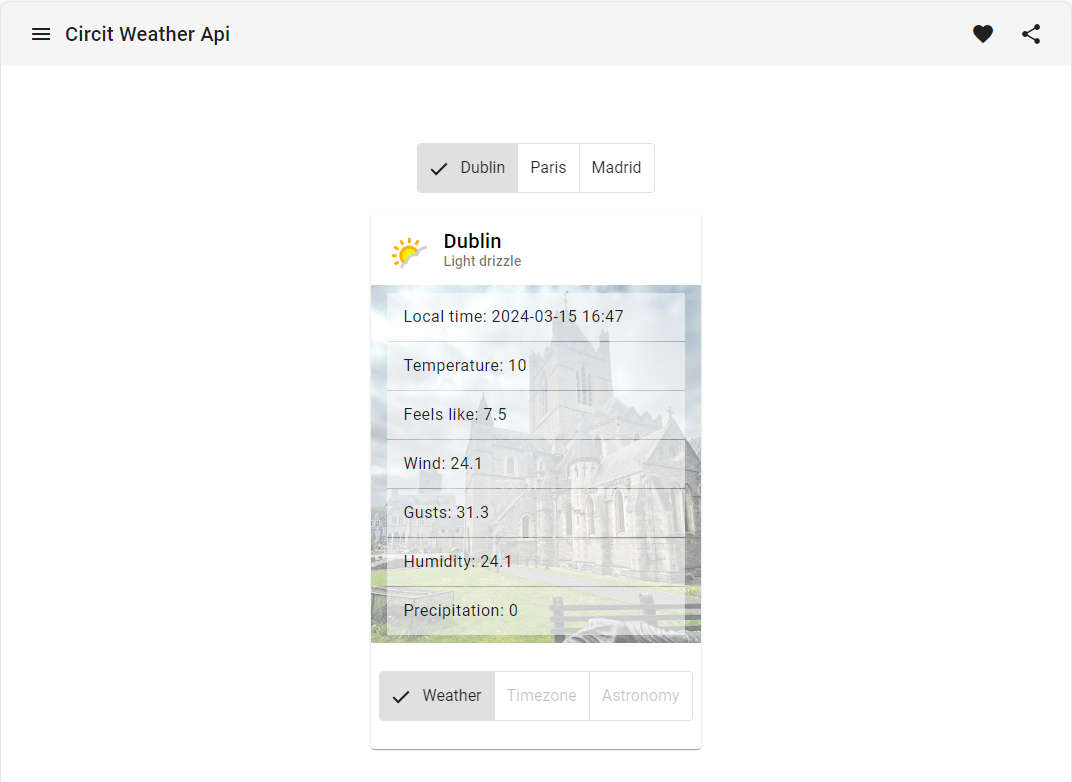
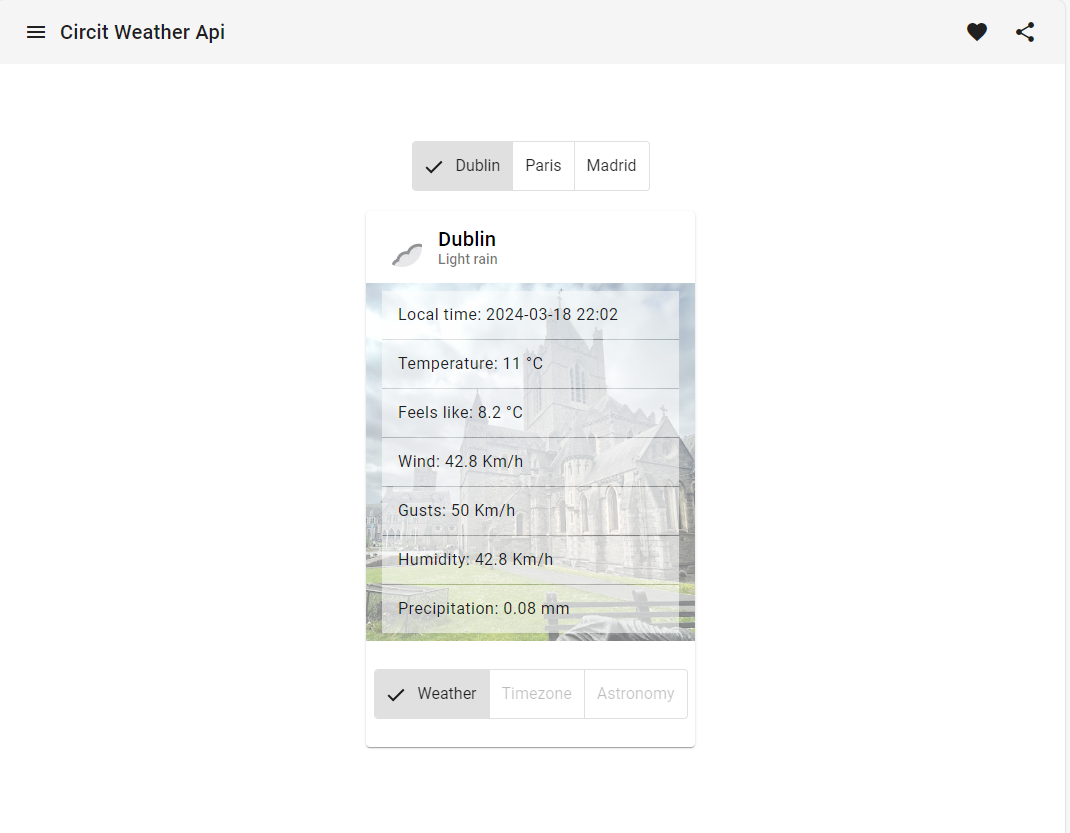
Added missing measurement units

diff --git a/src/Circit.Weather.Web/src/app/components/card/card.component.html b/src/Circit.Weather.Web/src/app/components/card/card.component.html
@@ -10,17 +10,17 @@
     <mat-list>
       <mat-list-item class="list-item"><li>Local time: {{model.location.localtime}}</li></mat-list-item>
       <mat-divider></mat-divider>
-      <mat-list-item class="list-item"><li>Temperature: {{model.current.temp_c}}</li></mat-list-item>
+      <mat-list-item class="list-item"><li>Temperature: {{model.current.temp_c}} &deg;C</li></mat-list-item>
       <mat-divider></mat-divider>
-      <mat-list-item class="list-item"><li>Feels like: {{model.current.feelslike_c}}</li></mat-list-item>
+      <mat-list-item class="list-item"><li>Feels like: {{model.current.feelslike_c}} &deg;C</li></mat-list-item>
       <mat-divider></mat-divider>
-      <mat-list-item class="list-item"><li>Wind: {{model.current.wind_kph}}</li></mat-list-item>
+      <mat-list-item class="list-item"><li>Wind: {{model.current.wind_kph}} Km/h</li></mat-list-item>
       <mat-divider></mat-divider>
-      <mat-list-item class="list-item"><li>Gusts: {{model.current.gust_kph}}</li></mat-list-item>
+      <mat-list-item class="list-item"><li>Gusts: {{model.current.gust_kph}} Km/h</li></mat-list-item>
       <mat-divider></mat-divider>
-      <mat-list-item class="list-item"><li>Humidity: {{model.current.wind_kph}}</li></mat-list-item>
+      <mat-list-item class="list-item"><li>Humidity: {{model.current.wind_kph}} Km/h</li></mat-list-item>
       <mat-divider></mat-divider>
-      <mat-list-item class="list-item"><li>Precipitation: {{model.current.precip_mm}}</li></mat-list-item>
+      <mat-list-item class="list-item"><li>Precipitation: {{model.current.precip_mm}} mm</li></mat-list-item>
     </mat-list>     
   </mat-card-content>
 
